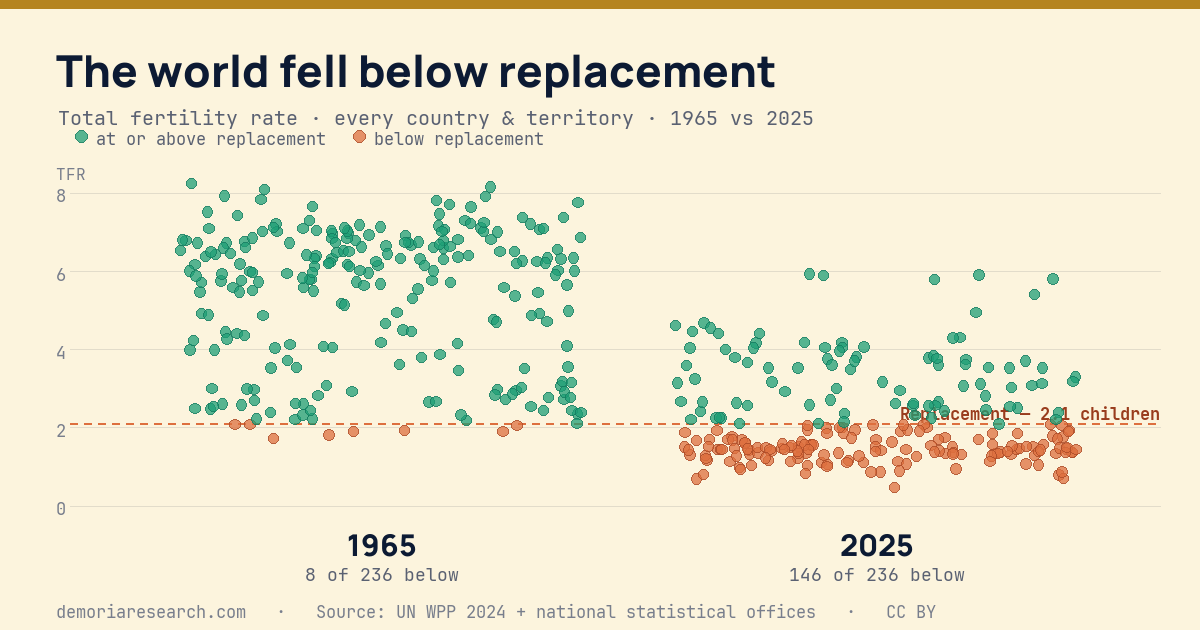
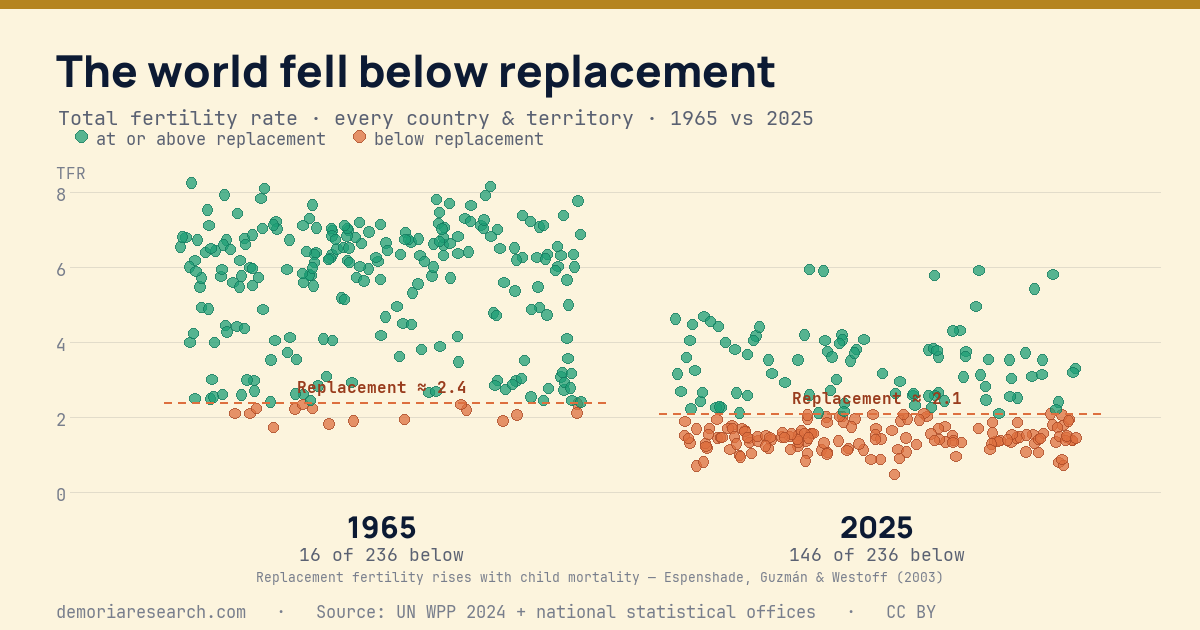
Charts: mortality-correct replacement level + clear milestone labels
1) Replacement isn't a fixed 2.1 — it's TFR/NRR and rises with child
   mortality (Espenshade, Guzmán & Westoff 2003; range ~2.1–3.5). Computed
   from our own data: median replacement was ~2.4 in 1965 vs ~2.1 in 2025.
   Chart 1 now draws a separate replacement line per panel (≈2.4 over 1965,
   ≈2.1 over 2025), counts 'below' against each panel's level (16 → 146, was
   mis-stated as 8 → 146 on a flat 2.1), and cites the source on the figure.

2) Chart 2 milestone labels (Germany/Russia/Japan/Spain/China) were crossing
   the cumulative line. Re-laid them up-and-left of each dot with a short
   leader into the empty area above the curve — no overlaps, more breathing room.

Both on-page SVGs and the 1200x630 og PNGs regenerated and verified.

diff --git a/public/charts/index.html b/public/charts/index.html
@@ -82,12 +82,15 @@ const STYLE=".ax{font-family:'JetBrains Mono',ui-monospace,monospace;font-size:1
   const st=el('style',{});st.textContent=STYLE;SVG.appendChild(st);
   [0,2,4,6,8].forEach(t=>{const y=yS(t);SVG.appendChild(el('line',{x1:x0,y1:y,x2:x1,y2:y,stroke:'rgba(12,26,51,.10)','stroke-width':1}));SVG.appendChild(tx(x0-10,y+4,t.toFixed(0),'ax',{'text-anchor':'end'}));});
   SVG.appendChild(tx(x0-10,yS(8)-16,'TFR','ax',{'text-anchor':'end'}));
-  const yr=yS(2.1);
-  SVG.appendChild(el('line',{x1:x0,y1:yr,x2:x1,y2:yr,stroke:'#dd6f3e','stroke-width':1.5,'stroke-dasharray':'6 5'}));
-  SVG.appendChild(tx(x1,yr-7,'Replacement — 2.1 children','repl',{'text-anchor':'end'}));
-  const groups=[{k:'a',cx:(x0+(x0+x1)/2)/2+40,lab:'1965'},{k:'b',cx:((x0+x1)/2+x1)/2-10,lab:'2025'}];
+  const groups=[{k:'a',cx:(x0+(x0+x1)/2)/2+40,lab:'1965',th:2.4},{k:'b',cx:((x0+x1)/2+x1)/2-10,lab:'2025',th:2.1}];
   const bw=(x1-x0)/2*0.74;
-  groups.forEach(g=>{let below=0;TFR.forEach(r=>{const v=r[g.k],cx=g.cx+jit(r.iso)*bw/2,cy=yS(v),lo=v<2.1;if(lo)below++;SVG.appendChild(el('circle',{cx:cx.toFixed(1),cy:cy.toFixed(1),r:4.3,fill:lo?'#dd6f3e':'#1d9e75','fill-opacity':0.72,stroke:lo?'#993c1d':'#0f6e56','stroke-width':0.5,'stroke-opacity':0.5}));});SVG.appendChild(tx(g.cx,y0+30,g.lab,'big',{'text-anchor':'middle','font-size':'22'}));SVG.appendChild(tx(g.cx,y0+52,below+' of '+TFR.length+' below','bigl',{'text-anchor':'middle'}));});
+  groups.forEach(g=>{let below=0;TFR.forEach(r=>{const v=r[g.k],cx=g.cx+jit(r.iso)*bw/2,cy=yS(v),lo=v<g.th;if(lo)below++;SVG.appendChild(el('circle',{cx:cx.toFixed(1),cy:cy.toFixed(1),r:4.3,fill:lo?'#dd6f3e':'#1d9e75','fill-opacity':0.72,stroke:lo?'#993c1d':'#0f6e56','stroke-width':0.5,'stroke-opacity':0.5}));});
+    const ry=yS(g.th),ga=g.cx-bw/2-16,gb=g.cx+bw/2+16;
+    SVG.appendChild(el('line',{x1:ga,y1:ry,x2:gb,y2:ry,stroke:'#dd6f3e','stroke-width':1.5,'stroke-dasharray':'6 5'}));
+    SVG.appendChild(tx(g.cx,ry-8,'Replacement ≈ '+g.th.toFixed(1),'repl',{'text-anchor':'middle'}));
+    SVG.appendChild(tx(g.cx,y0+30,g.lab,'big',{'text-anchor':'middle','font-size':'22'}));
+    SVG.appendChild(tx(g.cx,y0+52,below+' of '+TFR.length+' below','bigl',{'text-anchor':'middle'}));});
+  SVG.appendChild(tx((x0+x1)/2,y0+74,'Replacement fertility rises with child mortality — Espenshade, Guzmán & Westoff (2003)','ax',{'text-anchor':'middle','font-size':'11'}));
   const lx=x0+4,ly=mT-30;
   SVG.appendChild(el('circle',{cx:lx+6,cy:ly,r:5,fill:'#1d9e75','fill-opacity':.75}));SVG.appendChild(tx(lx+18,ly+4,'at or above replacement','ax'));
   SVG.appendChild(el('circle',{cx:lx+218,cy:ly,r:5,fill:'#dd6f3e','fill-opacity':.8}));SVG.appendChild(tx(lx+230,ly+4,'below replacement','ax'));
@@ -111,8 +114,12 @@ const STYLE=".ax{font-family:'JetBrains Mono',ui-monospace,monospace;font-size:1
   SVG.appendChild(el('path',{d:d,fill:'none',stroke:'#b58420','stroke-width':2.5,'stroke-linejoin':'round'}));
   rows.forEach(r=>{const x=xS(r.onset),rr=Math.max(2.5,Math.min(15,Math.sqrt(r.pop||1)*1.25));SVG.appendChild(el('circle',{cx:x.toFixed(1),cy:(y0-6).toFixed(1),r:rr.toFixed(1),fill:'#dd6f3e','fill-opacity':0.55,stroke:'#993c1d','stroke-width':0.5,'stroke-opacity':0.5}));});
   const cumAt=y=>rows.filter(r=>r.onset<=y).length;
-  const M=[[1972,'Germany',1],[1992,'Russia',1],[2005,'Japan',1],[2015,'Spain',1],[2022,'China',-1]];
-  M.forEach(m=>{const yy=m[0],nm=m[1],dir=m[2],x=xS(yy),y=cS(cumAt(yy));SVG.appendChild(el('circle',{cx:x,cy:y,r:4,fill:'#0c1a33'}));SVG.appendChild(tx(x+(dir>0?8:-8),y+(dir>0?-6:-14),nm,'lab',{'text-anchor':dir>0?'start':'end'}));SVG.appendChild(tx(x+(dir>0?8:-8),y+(dir>0?8:0),String(yy),'bigl',{'text-anchor':dir>0?'start':'end','font-size':'11'}));});
+  const M=[[1972,'Germany'],[1992,'Russia'],[2005,'Japan'],[2015,'Spain'],[2022,'China']];
+  M.forEach(m=>{const yy=m[0],nm=m[1],x=xS(yy),y=cS(cumAt(yy));
+    SVG.appendChild(el('line',{x1:x,y1:y,x2:x-16,y2:y-20,stroke:'rgba(12,26,51,.45)','stroke-width':1}));
+    SVG.appendChild(el('circle',{cx:x,cy:y,r:4,fill:'#0c1a33'}));
+    SVG.appendChild(tx(x-20,y-34,nm,'lab',{'text-anchor':'end'}));
+    SVG.appendChild(tx(x-20,y-19,String(yy),'bigl',{'text-anchor':'end','font-size':'11'}));});
   SVG.appendChild(tx(x0+34,y1+30,rows.length+' countries','big',{'font-size':'24'}));
   SVG.appendChild(tx(x0+34,y1+50,'now in natural decline','bigl'));
 })();

diff --git a/_build_charts_page.py b/_build_charts_page.py
@@ -94,12 +94,15 @@ const STYLE=".ax{font-family:'JetBrains Mono',ui-monospace,monospace;font-size:1
   const st=el('style',{});st.textContent=STYLE;SVG.appendChild(st);
   [0,2,4,6,8].forEach(t=>{const y=yS(t);SVG.appendChild(el('line',{x1:x0,y1:y,x2:x1,y2:y,stroke:'rgba(12,26,51,.10)','stroke-width':1}));SVG.appendChild(tx(x0-10,y+4,t.toFixed(0),'ax',{'text-anchor':'end'}));});
   SVG.appendChild(tx(x0-10,yS(8)-16,'TFR','ax',{'text-anchor':'end'}));
-  const yr=yS(2.1);
-  SVG.appendChild(el('line',{x1:x0,y1:yr,x2:x1,y2:yr,stroke:'#dd6f3e','stroke-width':1.5,'stroke-dasharray':'6 5'}));
-  SVG.appendChild(tx(x1,yr-7,'Replacement — 2.1 children','repl',{'text-anchor':'end'}));
-  const groups=[{k:'a',cx:(x0+(x0+x1)/2)/2+40,lab:'1965'},{k:'b',cx:((x0+x1)/2+x1)/2-10,lab:'2025'}];
+  const groups=[{k:'a',cx:(x0+(x0+x1)/2)/2+40,lab:'1965',th:2.4},{k:'b',cx:((x0+x1)/2+x1)/2-10,lab:'2025',th:2.1}];
   const bw=(x1-x0)/2*0.74;
-  groups.forEach(g=>{let below=0;TFR.forEach(r=>{const v=r[g.k],cx=g.cx+jit(r.iso)*bw/2,cy=yS(v),lo=v<2.1;if(lo)below++;SVG.appendChild(el('circle',{cx:cx.toFixed(1),cy:cy.toFixed(1),r:4.3,fill:lo?'#dd6f3e':'#1d9e75','fill-opacity':0.72,stroke:lo?'#993c1d':'#0f6e56','stroke-width':0.5,'stroke-opacity':0.5}));});SVG.appendChild(tx(g.cx,y0+30,g.lab,'big',{'text-anchor':'middle','font-size':'22'}));SVG.appendChild(tx(g.cx,y0+52,below+' of '+TFR.length+' below','bigl',{'text-anchor':'middle'}));});
+  groups.forEach(g=>{let below=0;TFR.forEach(r=>{const v=r[g.k],cx=g.cx+jit(r.iso)*bw/2,cy=yS(v),lo=v<g.th;if(lo)below++;SVG.appendChild(el('circle',{cx:cx.toFixed(1),cy:cy.toFixed(1),r:4.3,fill:lo?'#dd6f3e':'#1d9e75','fill-opacity':0.72,stroke:lo?'#993c1d':'#0f6e56','stroke-width':0.5,'stroke-opacity':0.5}));});
+    const ry=yS(g.th),ga=g.cx-bw/2-16,gb=g.cx+bw/2+16;
+    SVG.appendChild(el('line',{x1:ga,y1:ry,x2:gb,y2:ry,stroke:'#dd6f3e','stroke-width':1.5,'stroke-dasharray':'6 5'}));
+    SVG.appendChild(tx(g.cx,ry-8,'Replacement ≈ '+g.th.toFixed(1),'repl',{'text-anchor':'middle'}));
+    SVG.appendChild(tx(g.cx,y0+30,g.lab,'big',{'text-anchor':'middle','font-size':'22'}));
+    SVG.appendChild(tx(g.cx,y0+52,below+' of '+TFR.length+' below','bigl',{'text-anchor':'middle'}));});
+  SVG.appendChild(tx((x0+x1)/2,y0+74,'Replacement fertility rises with child mortality — Espenshade, Guzmán & Westoff (2003)','ax',{'text-anchor':'middle','font-size':'11'}));
   const lx=x0+4,ly=mT-30;
   SVG.appendChild(el('circle',{cx:lx+6,cy:ly,r:5,fill:'#1d9e75','fill-opacity':.75}));SVG.appendChild(tx(lx+18,ly+4,'at or above replacement','ax'));
   SVG.appendChild(el('circle',{cx:lx+218,cy:ly,r:5,fill:'#dd6f3e','fill-opacity':.8}));SVG.appendChild(tx(lx+230,ly+4,'below replacement','ax'));
@@ -123,8 +126,12 @@ const STYLE=".ax{font-family:'JetBrains Mono',ui-monospace,monospace;font-size:1
   SVG.appendChild(el('path',{d:d,fill:'none',stroke:'#b58420','stroke-width':2.5,'stroke-linejoin':'round'}));
   rows.forEach(r=>{const x=xS(r.onset),rr=Math.max(2.5,Math.min(15,Math.sqrt(r.pop||1)*1.25));SVG.appendChild(el('circle',{cx:x.toFixed(1),cy:(y0-6).toFixed(1),r:rr.toFixed(1),fill:'#dd6f3e','fill-opacity':0.55,stroke:'#993c1d','stroke-width':0.5,'stroke-opacity':0.5}));});
   const cumAt=y=>rows.filter(r=>r.onset<=y).length;
-  const M=[[1972,'Germany',1],[1992,'Russia',1],[2005,'Japan',1],[2015,'Spain',1],[2022,'China',-1]];
-  M.forEach(m=>{const yy=m[0],nm=m[1],dir=m[2],x=xS(yy),y=cS(cumAt(yy));SVG.appendChild(el('circle',{cx:x,cy:y,r:4,fill:'#0c1a33'}));SVG.appendChild(tx(x+(dir>0?8:-8),y+(dir>0?-6:-14),nm,'lab',{'text-anchor':dir>0?'start':'end'}));SVG.appendChild(tx(x+(dir>0?8:-8),y+(dir>0?8:0),String(yy),'bigl',{'text-anchor':dir>0?'start':'end','font-size':'11'}));});
+  const M=[[1972,'Germany'],[1992,'Russia'],[2005,'Japan'],[2015,'Spain'],[2022,'China']];
+  M.forEach(m=>{const yy=m[0],nm=m[1],x=xS(yy),y=cS(cumAt(yy));
+    SVG.appendChild(el('line',{x1:x,y1:y,x2:x-16,y2:y-20,stroke:'rgba(12,26,51,.45)','stroke-width':1}));
+    SVG.appendChild(el('circle',{cx:x,cy:y,r:4,fill:'#0c1a33'}));
+    SVG.appendChild(tx(x-20,y-34,nm,'lab',{'text-anchor':'end'}));
+    SVG.appendChild(tx(x-20,y-19,String(yy),'bigl',{'text-anchor':'end','font-size':'11'}));});
   SVG.appendChild(tx(x0+34,y1+30,rows.length+' countries','big',{'font-size':'24'}));
   SVG.appendChild(tx(x0+34,y1+50,'now in natural decline','bigl'));
 })();

diff --git a/_build_chart_cards.py b/_build_chart_cards.py
@@ -37,30 +37,32 @@ def dot(d,cx,cy,r,fill,outline):
 # ---------- Chart 1: TFR strip ----------
 def chart1():
     im,d=base('The world fell below replacement','Total fertility rate · every country & territory · 1965 vs 2025')
-    mL,mR,mT,mB=70,40,170,124
+    mL,mR,mT,mB=70,40,170,138
     x0,x1,y0,y1=mL,W-mR,Hh-mB,mT; TMAX=8.6
     yS=lambda t:y0+(y1-y0)*(t/TMAX)
     for t in (0,2,4,6,8):
         y=yS(t); d.line([x0,y,x1,y],fill=(12,26,51,28),width=1)
         d.text((x0-14,y-9),str(t),font=mono(17),fill=(120,126,140),anchor='la')
     d.text((x0-14,yS(8)-30),'TFR',font=mono(16),fill=(120,126,140))
-    yr=yS(2.1);
-    for xx in range(int(x0),int(x1),14): d.line([xx,yr,xx+7,yr],fill=CORAL,width=2)
-    d.text((x1,yr-22),'Replacement — 2.1 children',font=mono(17,'Bold'),fill=CORALD,anchor='ra')
-    groups=[('a',int((x0+(x0+x1)/2)/2)+40,'1965'),('b',int(((x0+x1)/2+x1)/2)-10,'2025')]
-    bw=(x1-x0)/2*0.74
-    for k,cx,lab in groups:
+    groups=[('a',int((x0+(x0+x1)/2)/2)+40,'1965',2.4),('b',int(((x0+x1)/2+x1)/2)-10,'2025',2.1)]
+    bw=(x1-x0)/2*0.74; last=0
+    for k,cx,lab,th in groups:
         below=0
         for r in TFR:
-            v=r[k]; px=cx+jit(r['iso'])*bw/2; py=yS(v); lo=v<2.1
+            v=r[k]; px=cx+jit(r['iso'])*bw/2; py=yS(v); lo=v<th
             if lo: below+=1
             dot(d,px,py,5.2,CORAL if lo else TEAL,CORALD if lo else (15,110,86))
-        d.text((cx,y0+18),lab,font=manrope(30,800),fill=INK,anchor='ma')
-        d.text((cx,y0+56),f'{below} of {len(TFR)} below',font=mono(18),fill=(90,97,114),anchor='ma')
+        ry=yS(th); ga=int(cx-bw/2-16); gb=int(cx+bw/2+16)
+        for xx in range(ga,gb,14): d.line([xx,ry,xx+7,ry],fill=CORAL,width=2)
+        d.text((cx,ry-26),f'Replacement ≈ {th:.1f}',font=mono(16,'Bold'),fill=CORALD,anchor='ma')
+        d.text((cx,y0+14),lab,font=manrope(30,800),fill=INK,anchor='ma')
+        d.text((cx,y0+50),f'{below} of {len(TFR)} below',font=mono(18),fill=(90,97,114),anchor='ma')
+        last=below
     lx,ly=x0+4,mT-34
     dot(d,lx+7,ly,6,TEAL,(15,110,86)); d.text((lx+22,ly-9),'at or above replacement',font=mono(17),fill=(90,97,114))
     dot(d,lx+285,ly,6,CORAL,CORALD); d.text((lx+300,ly-9),'below replacement',font=mono(17),fill=(90,97,114))
-    im.save('public/charts/fertility-1965-2025.png'); return below
+    d.text((W/2,y0+76),'Replacement fertility rises with child mortality — Espenshade, Guzmán & Westoff (2003)',font=mono(13),fill=(120,126,140),anchor='ma')
+    im.save('public/charts/fertility-1965-2025.png'); return last
 
 # ---------- Chart 2: natural-decline onset ----------
 def chart2():
@@ -87,11 +89,12 @@ def chart2():
         x=xS(r['onset']); rr=max(2.5,min(15,math.sqrt(r.get('pop',1) or 1)*1.25))
         dot(d,x,y0-6,rr,CORAL,CORALD)
     cumAt=lambda y:sum(1 for r in ONS if r['onset']<=y)
-    for yy,nm,dr in [(1972,'Germany',1),(1992,'Russia',1),(2005,'Japan',1),(2015,'Spain',1),(2022,'China',-1)]:
-        x=xS(yy); y=cS(cumAt(yy)); d.ellipse([x-5,y-5,x+5,y+5],fill=INK)
-        a='la' if dr>0 else 'ra'; ox=10 if dr>0 else -10
-        d.text((x+ox,y+(-22 if dr>0 else -38)),nm,font=manrope(19,800),fill=INK,anchor=a)
-        d.text((x+ox,y+(0 if dr>0 else -16)),str(yy),font=mono(15),fill=(90,97,114),anchor=a)
+    for yy,nm in [(1972,'Germany'),(1992,'Russia'),(2005,'Japan'),(2015,'Spain'),(2022,'China')]:
+        x=xS(yy); y=cS(cumAt(yy))
+        d.line([x,y,x-18,y-22],fill=(12,26,51,120),width=1)
+        d.ellipse([x-5,y-5,x+5,y+5],fill=INK)
+        d.text((x-22,y-46),nm,font=manrope(20,800),fill=INK,anchor='ra')
+        d.text((x-22,y-24),str(yy),font=mono(15),fill=(90,97,114),anchor='ra')
     d.text((x0+38,y1+18),f'{len(ONS)} countries',font=manrope(34,800),fill=INK)
     d.text((x0+40,y1+62),'now in natural decline',font=mono(18),fill=(90,97,114))
     im.save('public/charts/natural-decline.png')
